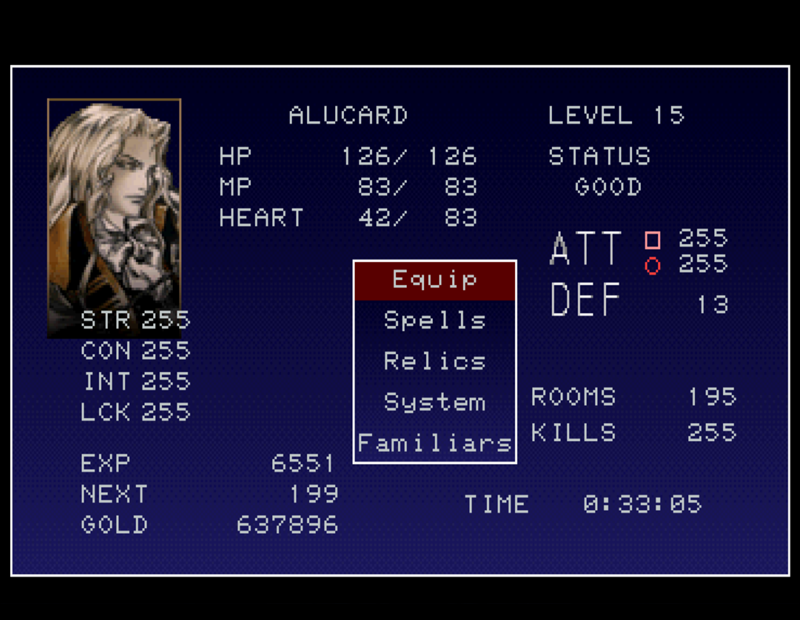
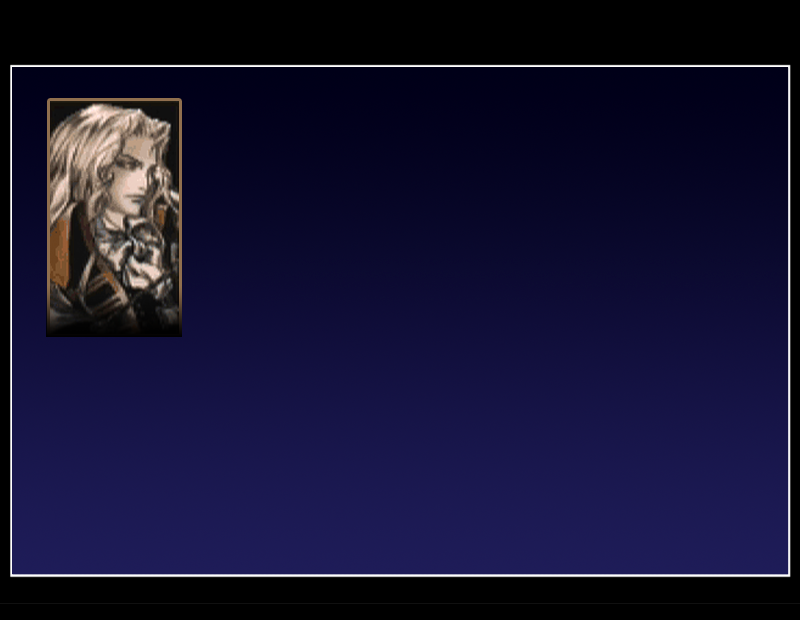
character screen style

diff --git a/app/css/app.css b/app/css/app.css
@@ -1,8 +1,13 @@
+@@font-face {
+  font-family: 'Atomicsc';
+  src: url('../fonts/atomicsc.TTF') format('truetype')
+}
 body{
   margin:0px;
   padding: 0px;
   background-color:#000;
   color:#FFF;
+  font-family: 'Atomicsc';
 }
 div#selectFile{
     width: 100%;
@@ -10,6 +15,13 @@ div#selectFile{
     margin: 0px;
     overflow: auto;
     background-image: url('../images/background_selectfile.png');
+}
+div#characterDiv{
+    width: 100%;
+    height: 100%;
+    margin: 0px;
+    overflow: auto;
+    background-image: url('../images/background_charmenu.png');
 }
 button#fileselect{
   width: 275px;

diff --git a/app/templates/character.html b/app/templates/character.html
@@ -1,5 +1,7 @@
-<div>
-  character <br />
-  HP: {{ hp }} / {{ hpmax }}<br />
-  MP: {{ mp }} / {{ mpmax }}
+<div id="characterDiv">
+  <div style="margin:106px 0px 0px 220px;">
+    <h3>ALUCARD</h3>
+    HP: {{ hp }} / {{ hpmax }}<br />
+    MP: {{ mp }} / {{ mpmax }}
+  </div>
 </div>
